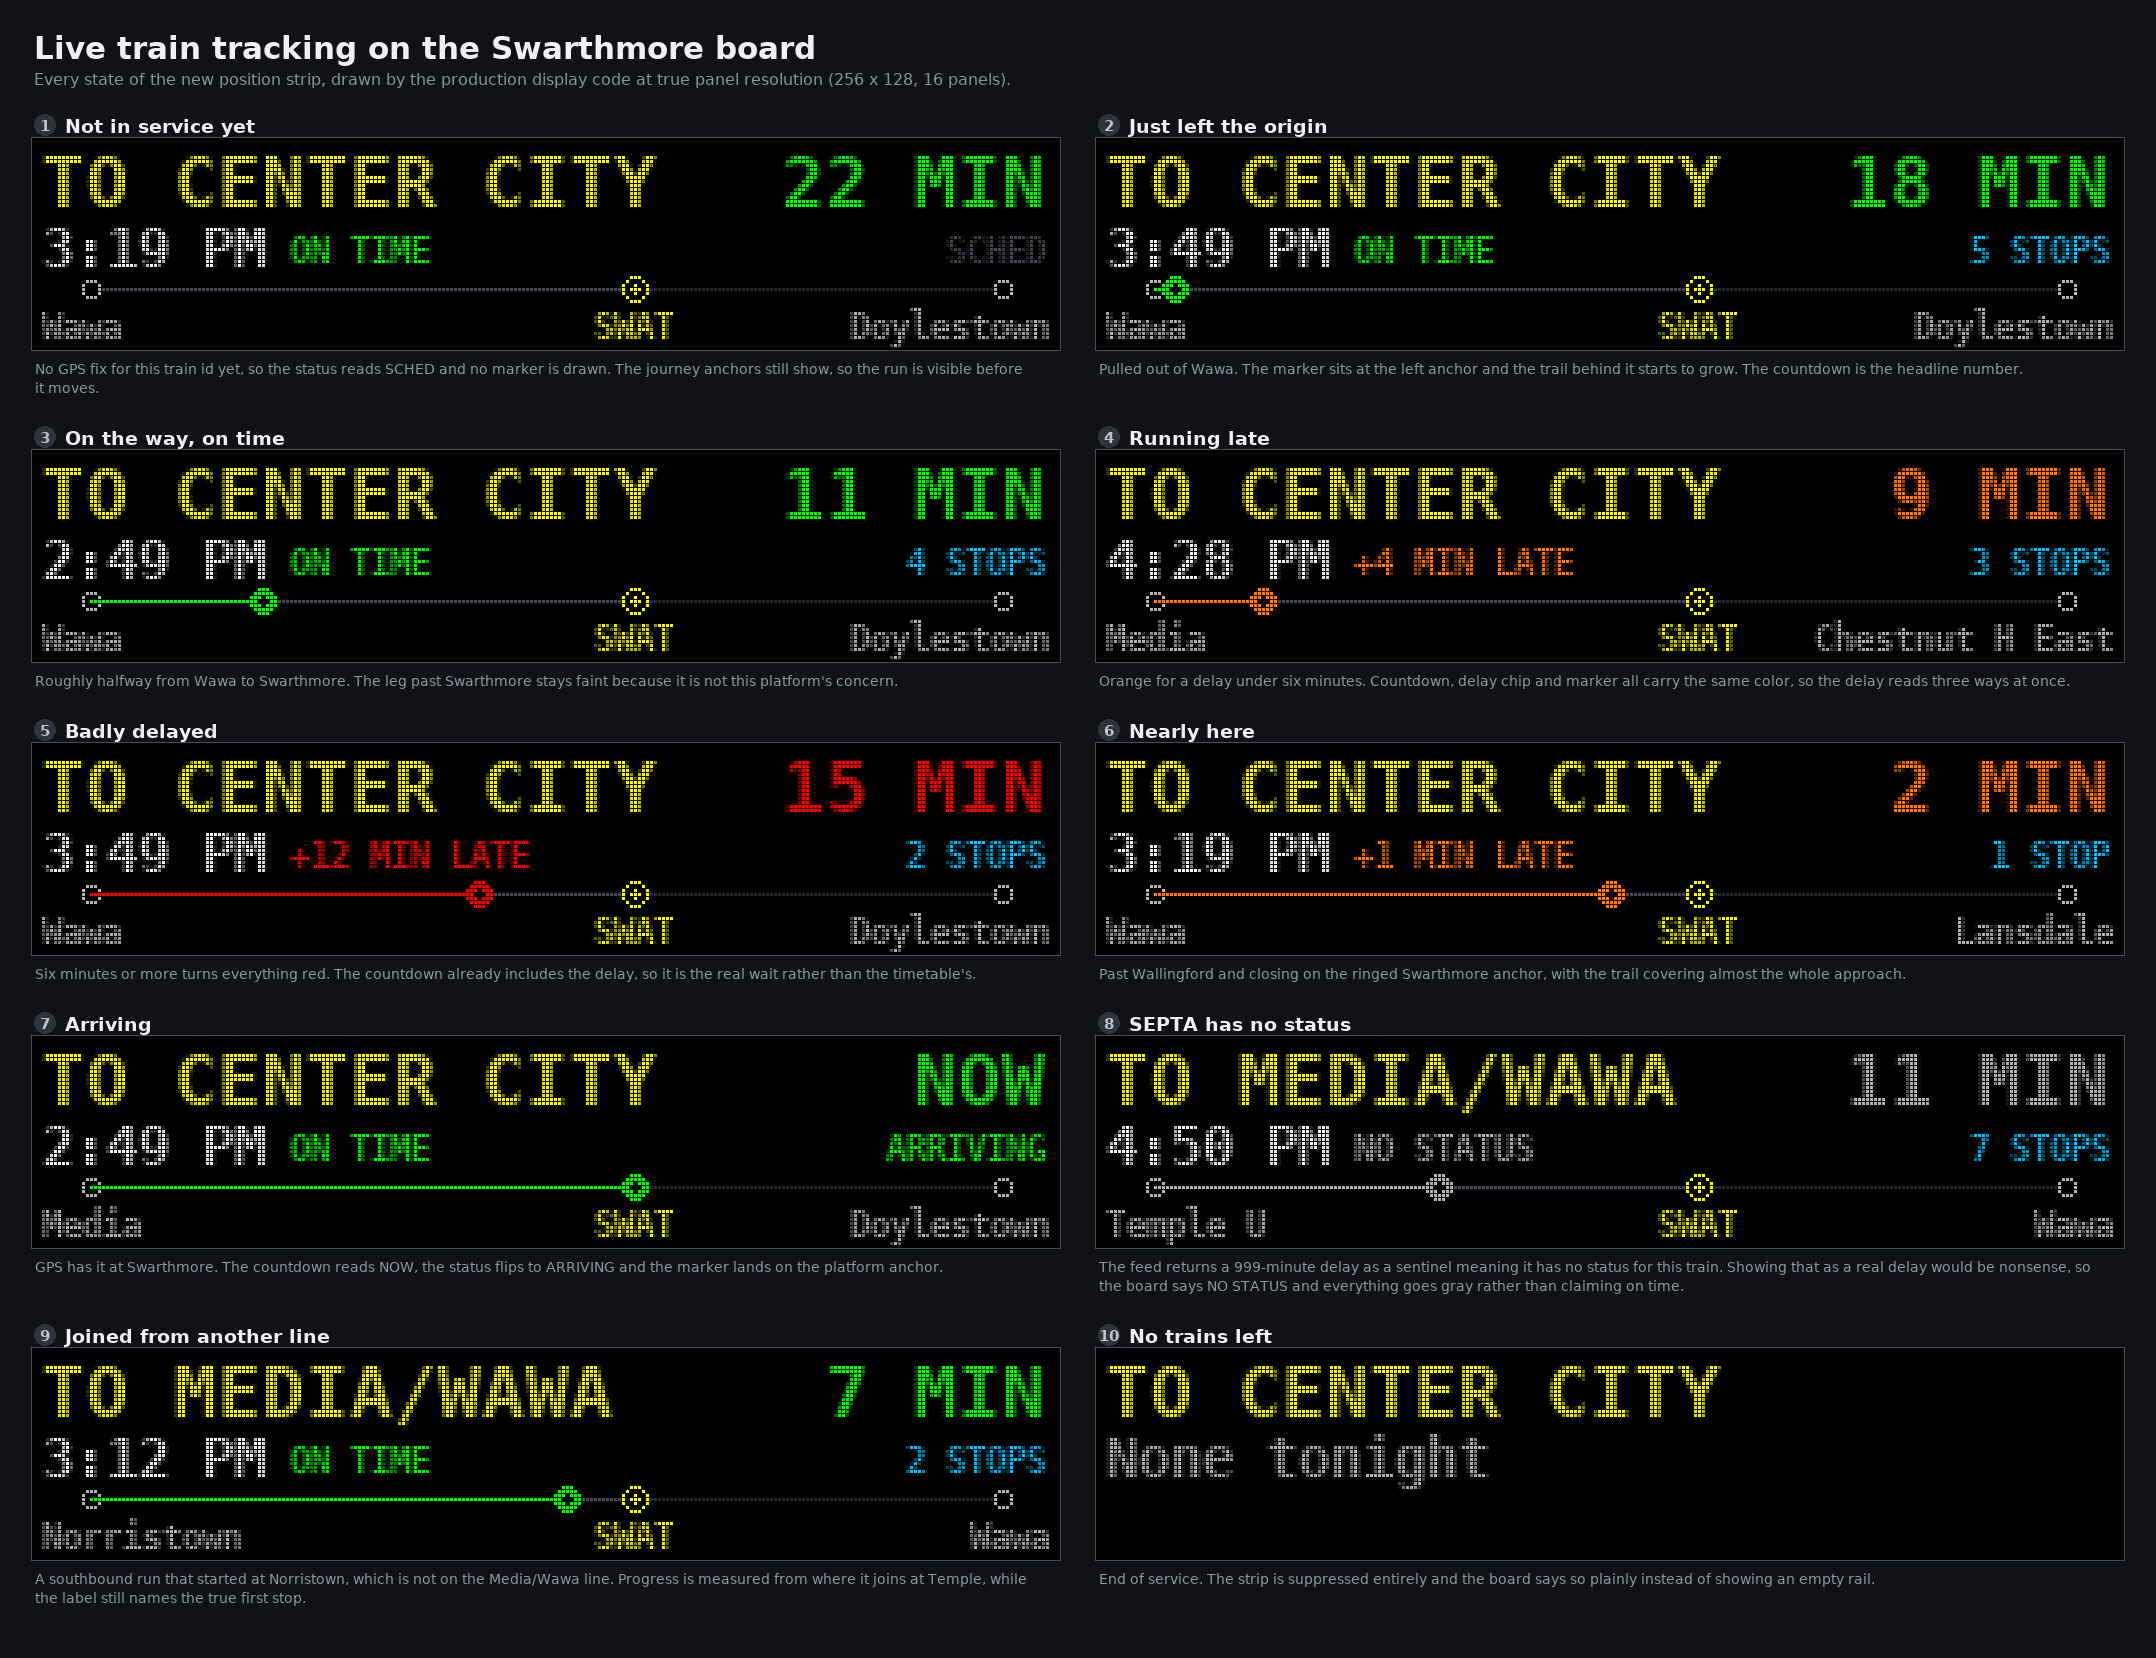
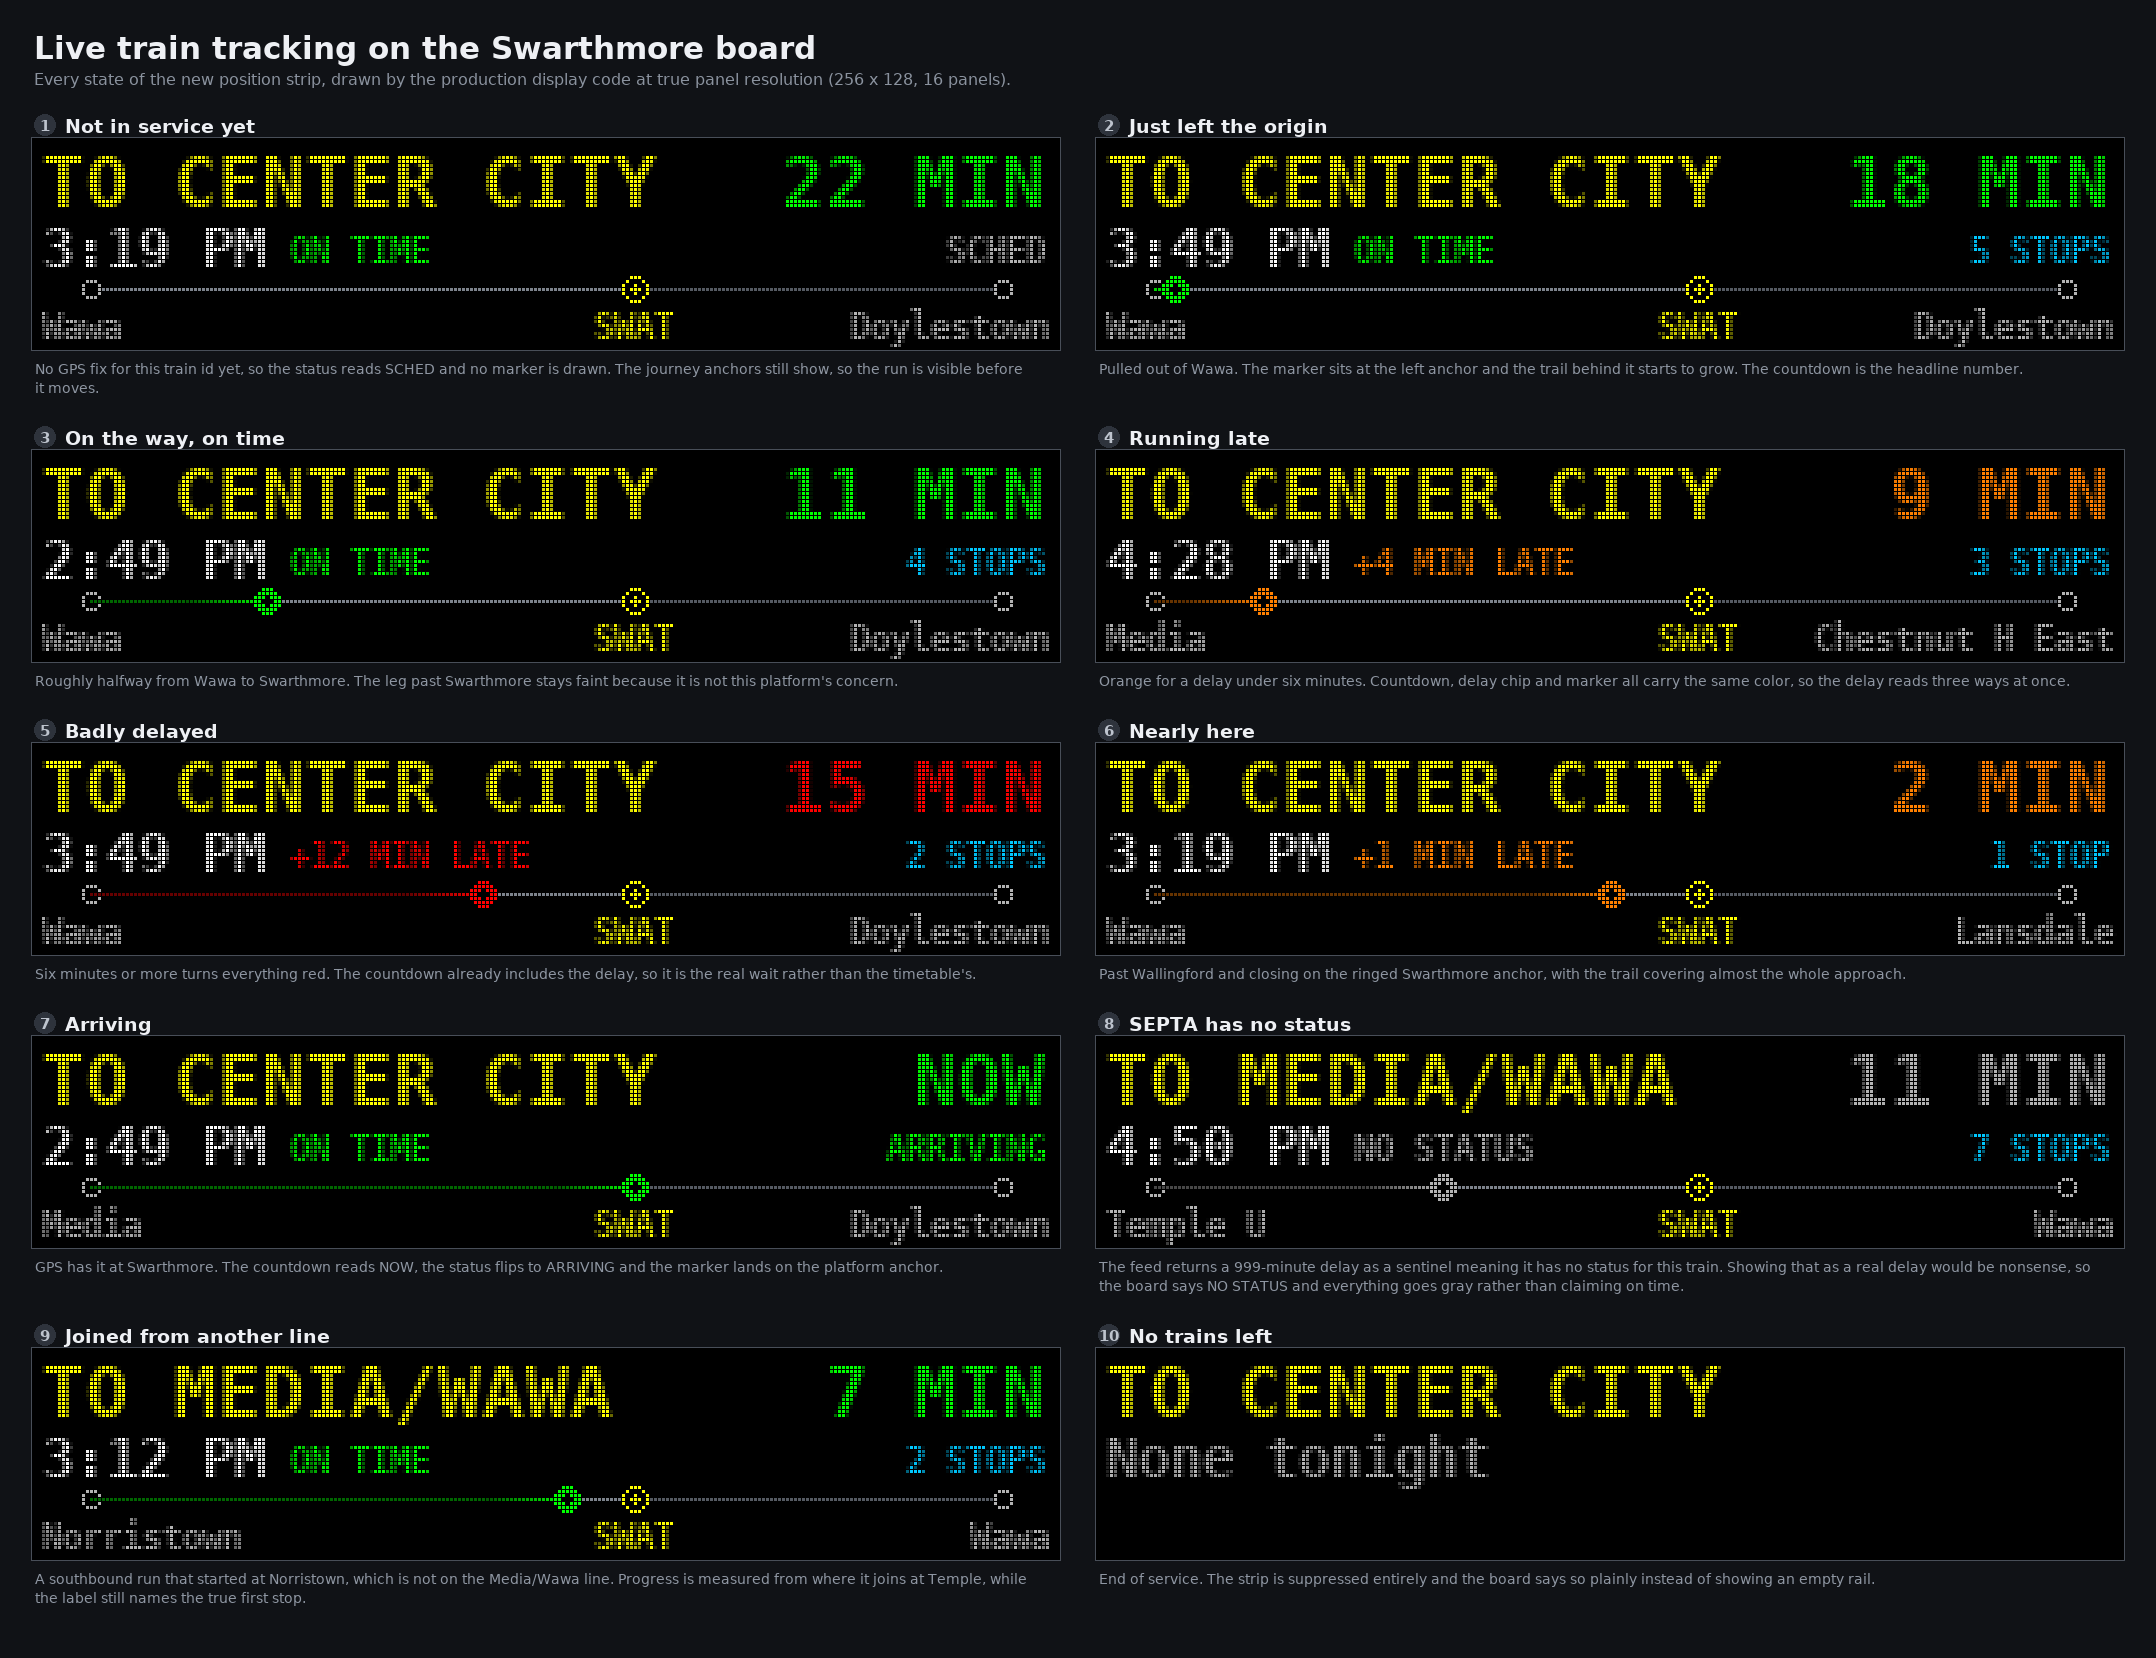
Make the strip legible on the real LED panels
Found on the hardware in the lab. Colours that read fine in the simulator sit
below what the panels actually show:

- DIM and FAINT are lifted well above the panels' visible floor. SCHED was
  effectively invisible, and the leg from Swarthmore to the terminus vanished,
  making the journey look like it ended at Swarthmore.
- SCHED now uses GRAY rather than DIM, since it is real information.
- The travelled leg is drawn at 40% of the delay colour and a 20px tail
  brightens into the train dot, so direction of travel reads even when the
  train has barely left its origin.

Verified in the simulator across all ten board states, including a train
exactly at its origin, where the tail range is empty.

Changed region(s): [[0.4351, 0.123, 0.4661, 0.1538]]

diff --git a/rpi5/prod/swarthmore-tracked.py b/rpi5/prod/swarthmore-tracked.py
@@ -64,11 +64,12 @@ ORANGE = (255, 128, 0)
 GREEN = (0, 255, 0)
 YELLOW = (255, 255, 0)
 GRAY = (180, 180, 180)
-DIM = (70, 74, 80)
-FAINT = (38, 41, 46)
+DIM = (125, 131, 140)
+FAINT = (85, 90, 98)
 
 # SEPTA reports this many minutes late when it has no status for a train.
 UNKNOWN_DELAY = 999
+TAIL_LEN = 20  # px of fading trail behind the train dot
 GARNET = (139, 0, 0)
 CYAN = (0, 200, 255)
 BLACK = (0, 0, 0)
@@ -263,6 +264,11 @@ def minutes_until(train):
     return int(max(0, round(mins)))
 
 
+def shade(color, f):
+    """color dimmed to fraction f, for tail and travelled-leg shading."""
+    return tuple(int(c * f) for c in color)
+
+
 def delay_color(minutes):
     if minutes <= 0:
         return GREEN
@@ -331,8 +337,16 @@ def draw_strip(draw, y, direction, train, track):
     frac = line.journey_fraction(track["pos"], origin, direction)
     # An unknown delay must not be drawn as an on-time green marker.
     color = GRAY if track.get("late_unknown") else delay_color(track["late"])
-    tx = x_org + (x_swat - x_org) * frac
-    draw.line([(x_org, y), (tx, y)], fill=color, width=1)
+    tx = int(round(x_org + (x_swat - x_org) * frac))
+
+    # The travelled leg stays lit so the run so far reads at a glance, and a
+    # short tail brightens into the dot so the direction of travel is obvious
+    # even when the train has barely left its origin.
+    if tx > x_org:
+        draw.line([(x_org, y), (tx, y)], fill=shade(color, 0.40), width=1)
+    for x in range(max(x_org, tx - TAIL_LEN), tx):
+        f = (x - (tx - TAIL_LEN)) / TAIL_LEN
+        draw.point((x, y), fill=shade(color, 0.35 + 0.65 * f))
     draw.ellipse([tx - 3, y - 3, tx + 3, y + 3], fill=color)
     draw.ellipse([tx - 1, y - 1, tx + 1, y + 1], fill=BLACK)
 
@@ -341,7 +355,7 @@ def status_text(track, train):
     if train["dest"] == "No trains":
         return "", DIM
     if not track:
-        return "SCHED", DIM
+        return "SCHED", GRAY
     if track["at_swat"]:
         return "ARRIVING", GREEN
     n = track["stops_away"]
